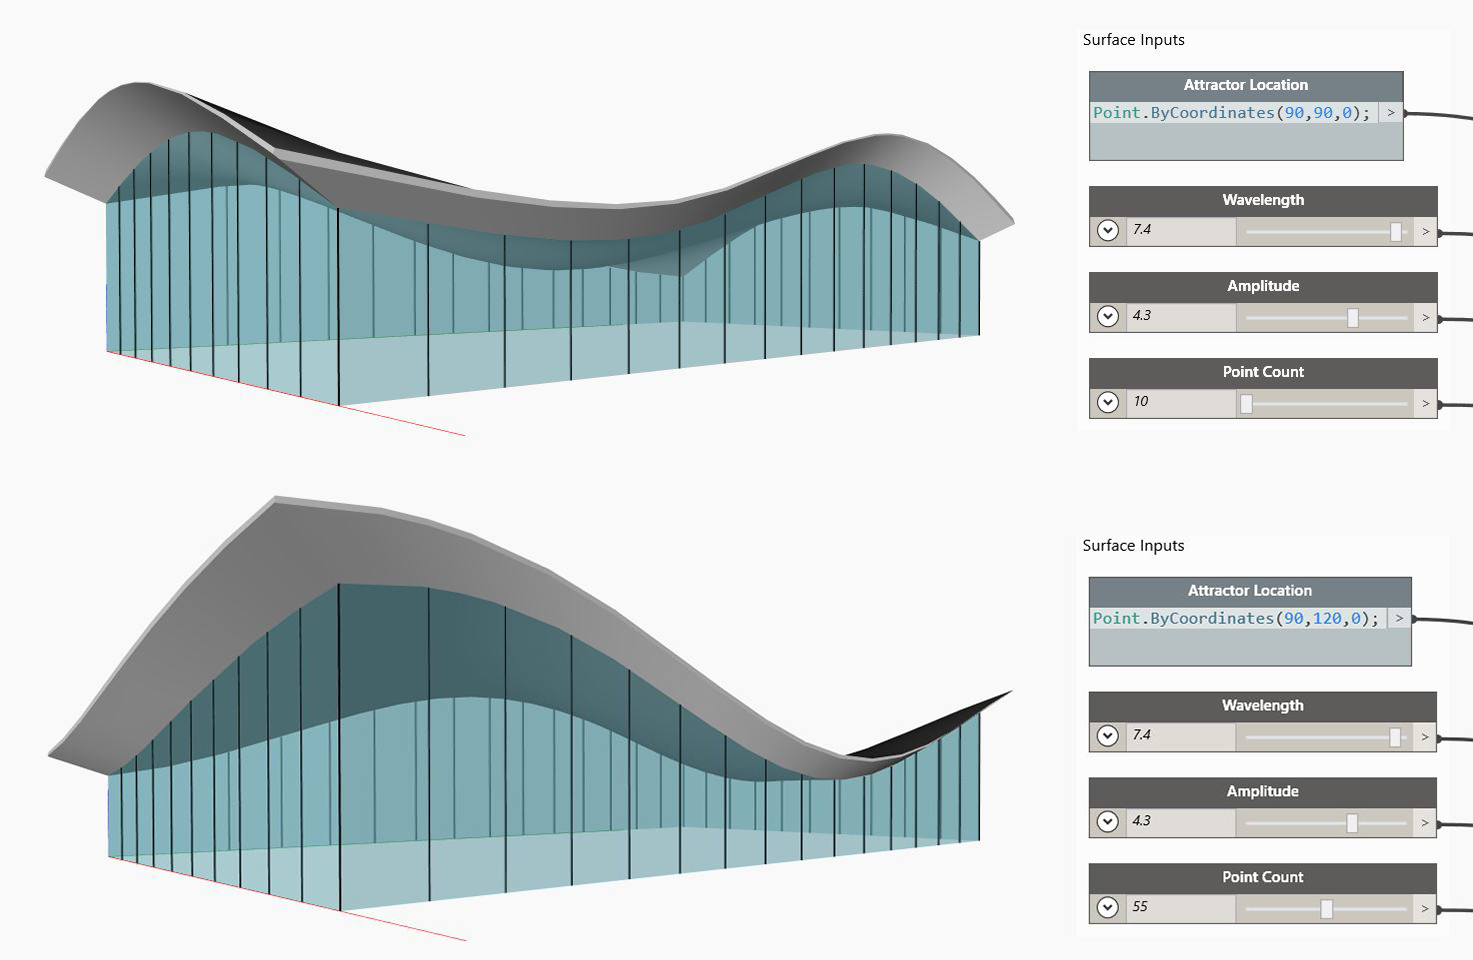
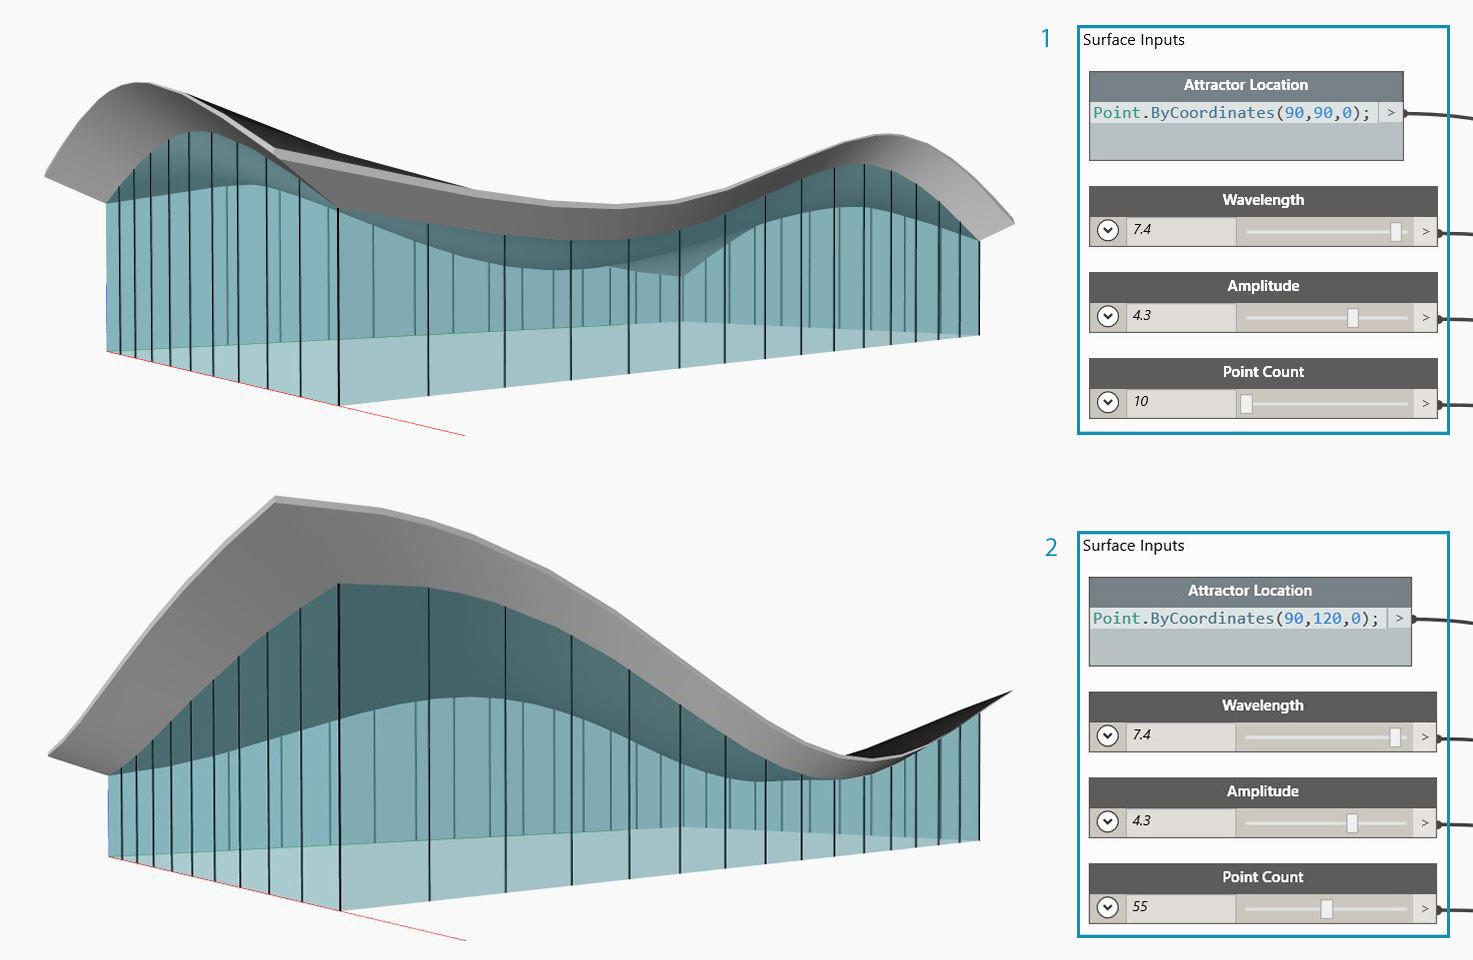
Creates assets/3-3.jpg
Auto commit by GitBook Editor

diff --git a/12_Best-Practice/12-2_Graph-Strategies.md b/12_Best-Practice/12-2_Graph-Strategies.md
@@ -122,7 +122,7 @@ Python scripting is a powerful tool to use in your program as shown in Python No
 
 > Download the example file that accompanies this exercise \(Right click and "Save Link As..."\). A full list of example files can be found in the Appendix.
 
-Now that we have established several best practices, let’s apply them to a program that was put together quickly. Though the program succeeds in generating the roof, the state of the graph is a "mind-map" of the author. We will walk through our best practices to organize, describe, and analyze the program so other users can understand how to use it.
+Now that we have established several best practices, let’s apply them to a program that was put together quickly. Though the program succeeds in generating the roof, the state of the graph is a "mind-map" of the author. It lacks any organization or description of its use. We will walk through our best practices to organize, describe, and analyze the program so other users can understand how to use it.
 
 ![](/assets/00.jpg)
 
@@ -146,31 +146,27 @@ Now that we have established several best practices, let’s apply them to a pro
 
 > Aligning the graph gives it visual continuity, allowing us to see implicit relationships in the groups.
 
-> 1. Vertical alignment
-> 2. Horizontal alignment
-
 **Rename Sliders and add Notes:**
 
 ![](/assets/2-2.jpg)
 
-> These graphic improvements tell the user more about what the program is doing.
+> These graphic improvements tell the user more about what the program is doing. The different group colors help to distinguish inputs from functions.
 
 > 1. Notes
-> 2. Number sliders with descriptive names
-> 3. Multi-color Groups
+> 2. Inputs with descriptive names
 
 **Integrate Scripting:**
 
-![](/assets/scripting.jpg)
+![](/assets/3.jpg)
 
 > We've chosen to integrate scripting at this point in the program so the drainage simulation can be run on the original, single roof surface. That specific surface is hidden, but it saves us from having to choose the top surface of the chamfered Polysurface.
 >
-> 1. Source node for script input
+> 1. Source geometry for script input
 > 2. Python node
 > 3. Input sliders
 > 4. On/off "switch"
 
-**Node to Code and Custom Node: **
+**Node to Code and Custom Node:**
 
 ![](/assets/3-2.jpg)
 
@@ -188,5 +184,7 @@ Now that we have established several best practices, let’s apply them to a pro
 > 1. Preset 1
 > 2. Preset 2
 
+**Our Program:**
 
+![](/assets/3-3.jpg)
 
